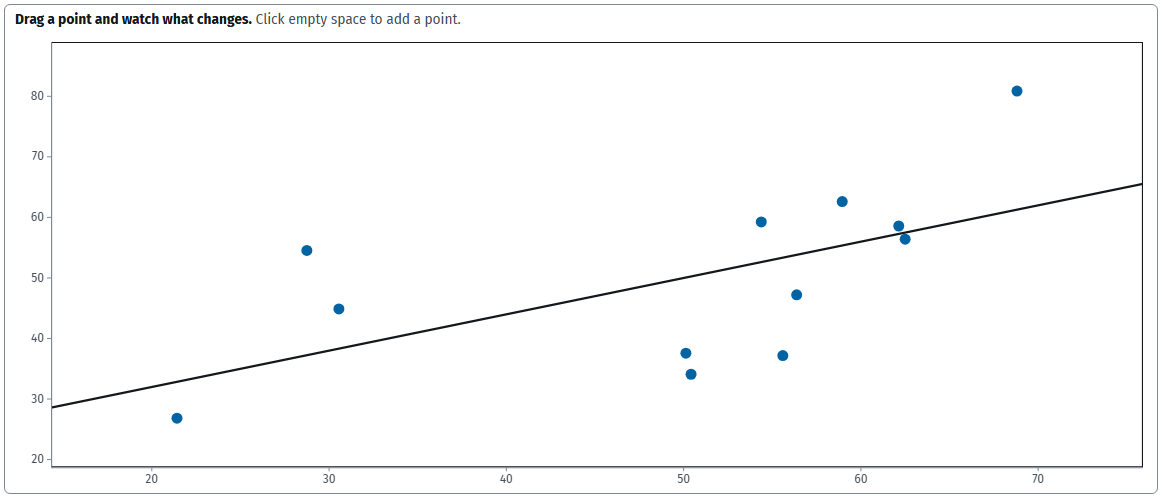
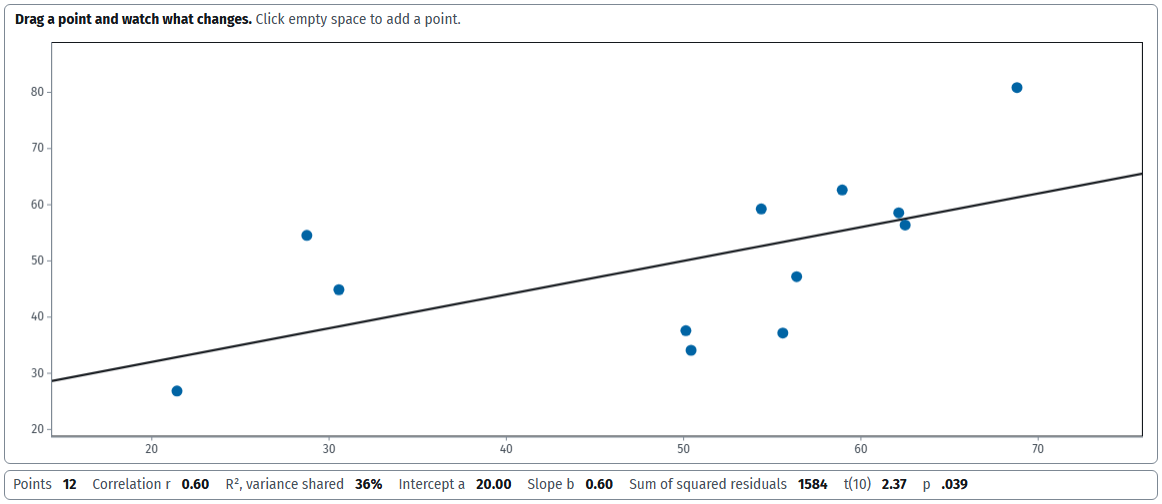
Simulator: add curve=0 and show=groups,rho, print the correlation readout
All three are opt-in or print-only. tests/check-sim.sh opens all 57 presets the decks use, and its output matches the run before these changes, pixels included. simulator/tests/index.html still passes 220, and simulator/tests/options.html adds 11.

Deck 6 slide 7 uses curve=0, so it no longer gives away the next prediction. The four correlation print screenshots now show r and the total.

diff --git a/tests/sim-qa.html b/tests/sim-qa.html
@@ -1,0 +1,78 @@
+<!doctype html>
+<html lang="en">
+<head>
+<meta charset="utf-8">
+<title>Simulator check</title>
+</head>
+<body>
+<!-- Opens every simulator preset the decks use, reads the readouts, presses the
+     buttons and reads them again. Serve the repo root over HTTP and open
+     tests/sim-qa.html, or run tests/check-sim.sh. The output is the baseline for
+     showing that a change to the tool leaves its defaults alone. -->
+<pre id="out">running</pre>
+<iframe id="sim" title="Simulator under test" style="width: 1180px; height: 545px; border: 0;"></iframe>
+<script>
+(async function () {
+  const out = document.getElementById("out"), frame = document.getElementById("sim");
+  const wait = ms => new Promise(r => setTimeout(r, ms));
+  const decks = ["04-z-scores", "05-probability", "06-sampling-distributions", "07-hypothesis-testing",
+    "08-t-test", "09-two-samples-gains", "10-anova", "11-correlation", "12-regression-line",
+    "13-regression-inference", "14-regression-groups", "00-template"];
+
+  const hash = s => { let h = 0; for (let i = 0; i < s.length; i++) h = (h * 31 + s.charCodeAt(i)) | 0; return h; };
+
+  function read(win, tab) {
+    const text = id => {
+      const el = win.document.getElementById(id);
+      return el ? el.textContent.replace(/\s+/g, " ").trim() : "";
+    };
+    const ids = { blueprint: ["readout", "cap-sample", "cap-dist"], power: ["p-readout", "cap-power"],
+                  intervals: ["ci-readout", "cap-ci"], correlation: ["r-readout", "cap-corr"] }[tab];
+    const state = {};
+    ids.forEach(id => { state[id] = text(id); });
+    return state;
+  }
+
+  function pixels(win) {
+    return Array.from(win.document.querySelectorAll("canvas"))
+      .filter(c => c.width && c.offsetParent !== null && c.id !== "c-fx")
+      .map(c => c.id + ":" + hash(c.toDataURL()));
+  }
+
+  const results = [];
+  for (const deck of decks) {
+    const res = await fetch("../slides/" + deck + ".html", { cache: "reload" });
+    if (!res.ok) continue;
+    const doc = new DOMParser().parseFromString(await res.text(), "text/html");
+    const src = doc.getElementById("source").value;
+    const slides = src.split(/\n---\n/);
+    let n = 0;
+    for (const slide of slides) {
+      if (/^\s*layout:\s*true/.test(slide)) continue;
+      n += 1;
+      const found = slide.match(/simulator\/index\.html\?([^"]+)"/);
+      if (!found) continue;
+      const query = found[1].replace(/&amp;/g, "&");
+      const tab = (query.match(/tab=(\w+)/) || [0, "blueprint"])[1];
+      frame.src = "../simulator/index.html?" + query;
+      await new Promise(r => { frame.onload = r; });
+      await wait(700);
+      const win = frame.contentWindow;
+      const row = { deck: deck, slide: n, title: (slide.match(/^# (.+)$/m) || [0, ""])[1], query: query,
+                    opened: read(win, tab), pixels: pixels(win), pressed: {} };
+      const buttons = { blueprint: ["draw-1", "draw-50", "clear"], intervals: ["ci-1", "ci-50", "ci-clear"],
+                        correlation: ["r-new"], power: [] }[tab];
+      for (const id of buttons) {
+        win.document.getElementById(id).click();
+        await wait(350);
+        row.pressed[id] = read(win, tab);
+      }
+      results.push(row);
+    }
+  }
+  out.textContent = JSON.stringify(results, null, 1);
+  document.title = "done";
+})().catch(e => { document.getElementById("out").textContent = "ERROR " + e; document.title = "done"; });
+</script>
+</body>
+</html>

diff --git a/simulator/tests/options.html b/simulator/tests/options.html
@@ -1,0 +1,75 @@
+<!doctype html>
+<html lang="en">
+<head>
+<meta charset="utf-8">
+<title>Simulator option tests</title>
+<style>
+  body { font: 16px system-ui, sans-serif; margin: 24px; }
+  iframe { width: 1180px; height: 545px; border: 0; }
+  .pass { color: #1a7a3a; } .fail { color: #b02a2a; }
+</style>
+</head>
+<body>
+<!-- Checks the URL options that need the page itself, which tests.js can't reach:
+     curve=0, show=groups,rho and the correlation readout in print screenshots.
+     Open it through a local server. -->
+<h1>Simulator option tests</h1>
+<p id="summary">running</p>
+<pre id="log"></pre>
+<iframe id="sim" title="Simulator under test"></iframe>
+<script>
+(async function () {
+  const frame = document.getElementById("sim"), lines = [];
+  let pass = 0, fail = 0;
+  const ok = (name, cond) => { if (cond) pass++; else { fail++; lines.push("FAIL " + name); } };
+
+  async function open(query) {
+    frame.src = "../index.html?" + query;
+    await new Promise(r => { frame.onload = r; });
+    await new Promise(r => setTimeout(r, 600));
+    return frame.contentWindow;
+  }
+  const shown = (win, id) => win.getComputedStyle(win.document.getElementById(id)).display !== "none";
+  const panel3 = win => win.document.getElementById("c-dist").toDataURL();
+
+  const preset = "ui=slide&step=2&n=1&view=raw&draws=1&seed=1365";
+
+  let win = await open(preset);
+  ok("the curve is on by default", win.SimBlueprint.state.curve === true);
+  const withCurve = panel3(win);
+  ok("slide mode hides the group boxes", !shown(win, "group-fields"));
+  ok("slide mode hides rho", !shown(win, "rho-field"));
+
+  win = await open(preset + "&curve=0");
+  ok("curve=0 turns it off", win.SimBlueprint.state.curve === false);
+  ok("curve=0 changes panel 3", panel3(win) !== withCurve);
+  const readout = win.document.getElementById("cap-sample").textContent;
+
+  win = await open(preset);
+  ok("curve=0 leaves the sample alone", win.document.getElementById("cap-sample").textContent === readout);
+  ok("the same preset gives the same picture", panel3(win) === withCurve);
+
+  win = await open("ui=slide&step=3p&n=10&show=rho");
+  ok("show=rho keeps rho in slide mode", shown(win, "rho-field"));
+
+  win = await open("ui=slide&step=4&n=10&show=groups");
+  ok("show=groups keeps the group boxes in slide mode", shown(win, "group-fields"));
+
+  win = await open("ui=slide&tab=correlation&n=12&r=0.6&seed=2027&print=1");
+  const shownOnly = Array.from(win.document.querySelectorAll("#view-correlation .controls > *"))
+    .filter(el => win.getComputedStyle(el).display !== "none").map(el => el.id);
+  ok("print shows only the correlation readout", shownOnly.length === 1 && shownOnly[0] === "r-readout");
+
+  win = await open("ui=slide&step=2&n=10&seed=1365&print=1");
+  ok("print still hides the blueprint controls", !shown(win, "readout") ||
+     win.getComputedStyle(win.document.querySelector("#view-blueprint .controls")).display === "none");
+
+  const summary = document.getElementById("summary");
+  summary.textContent = pass + " passed, " + fail + " failed";
+  summary.className = fail ? "fail" : "pass";
+  document.getElementById("log").textContent = lines.join("\n");
+  window.TEST_RESULT = { pass: pass, fail: fail, lines: lines };
+})();
+</script>
+</body>
+</html>

diff --git a/simulator/app.js b/simulator/app.js
@@ -310,6 +310,7 @@
       if (c.tails !== "two") q.set("tails", c.tails);
       if (c.view !== "stat") q.set("view", c.view);
       if (B.state.hide) q.set("hide", "1");
+      if (!B.state.curve) q.set("curve", "0");
       if (B.state.N) q.set("draws", B.state.N);
     }
     if (tab === "power") {
@@ -362,6 +363,11 @@
       document.body.classList.add("ui-slide");
       releaseFocus();
     }
+    // A slide can ask to keep controls that slide mode hides, with show=groups,rho
+    (params.get("show") || "").split(",").forEach(function (name) {
+      var field = { groups: "group-fields", rho: "rho-field" }[name];
+      if (field) $(field).classList.remove("slide-hide");
+    });
     if (root.parent !== root) document.body.classList.add("embedded");
     if (params.get("theme") === "light") root.SimDraw.useLight();
     if (params.get("print") === "1") document.body.classList.add("ui-print");
@@ -375,6 +381,7 @@
 
     var step = params.get("step") || "2", meta = E.STEPS[step] || E.STEPS["2"];
     B.state.hide = params.get("hide") === "1";
+    B.state.curve = params.get("curve") !== "0";
     B.configure({
       step: step, n: num("n", meta.n), d: tab === "blueprint" ? num("d", 0) : 0, pop: params.get("pop") || "normal",
       mu0: num("mu", 100), sigma: num("sd", 15) > 0 ? num("sd", 15) : 15, a0: num("a", 0),

diff --git a/simulator/blueprint.js b/simulator/blueprint.js
@@ -7,7 +7,7 @@
   var MAX_KEPT = 5000;
 
   var state = {
-    c: null, dist: null, crit: null, rng: null, seed: 2027, hide: false,
+    c: null, dist: null, crit: null, rng: null, seed: 2027, hide: false, curve: true,
     samples: [], stats: [], raws: [], sumStat: 0, N: 0, selected: -1,
     range: null, dots: [], sumM: 0, sumM2: 0, sumSSn: 0, sumVarHat: 0, sumSdHat: 0, nEst: 0,
     beyondZ: 0, anim: 0
@@ -709,7 +709,7 @@
     }
 
     // The curve and the cutoffs sit on top of the dots
-    if (fn) D.curve(ctx, fn, x, base, height * 0.9, peak, pad, f.w - pad, { color: C.text, width: 1.8, dash: [6, 4] });
+    if (fn && state.curve) D.curve(ctx, fn, x, base, height * 0.9, peak, pad, f.w - pad, { color: C.text, width: 1.8, dash: [6, 4] });
     ctx.strokeStyle = C.crit;
     ctx.lineWidth = 1.5;
     [cutLo, cutHi].forEach(function (v) {

diff --git a/simulator/sim.css b/simulator/sim.css
@@ -321,6 +321,10 @@ body.ui-slide .readout tr { display: flex; gap: 5px; }
 /* The screenshot for a printed slide has nothing to press */
 body.ui-print .controls { display: none; }
 
+/* But r and the total live in the correlation tab's readout, not on the plot */
+body.ui-print #view-correlation .controls { display: flex; }
+body.ui-print #view-correlation .controls > :not(.readout) { display: none; }
+
 @media (max-width: 760px) {
   body { height: auto; }
   .view { display: flex; flex-direction: column; }
